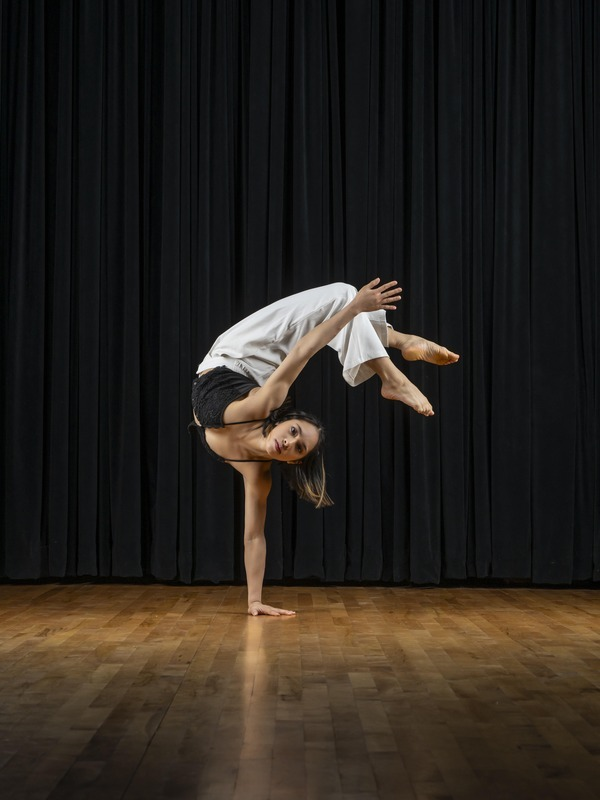
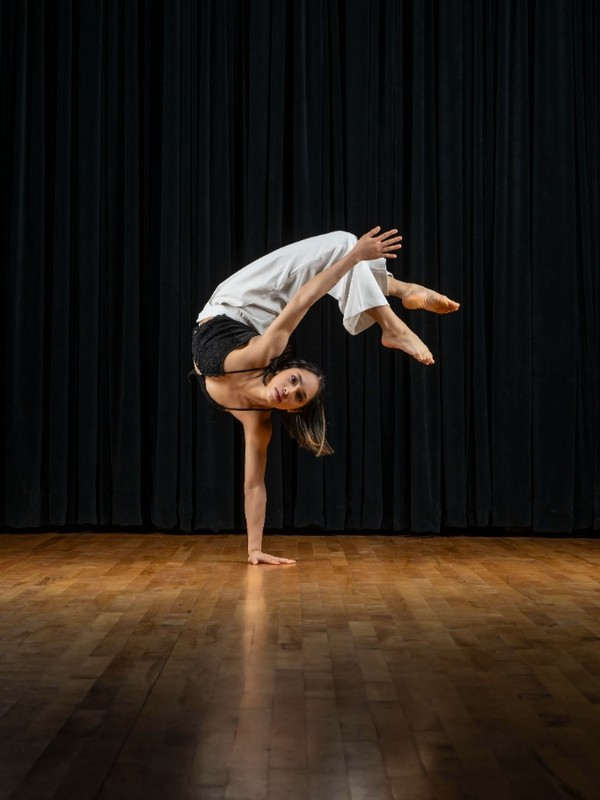
Teachers edits.

Changed region(s): [[0.0, 0.2812, 1.0, 0.9688], [0.54, 0.9375, 0.69, 1.0]]

diff --git a/about.html b/about.html
@@ -660,7 +660,7 @@
                 <span class="faculty-style-tag">Vaganova</span>
               </div>
               <p style="font-size:0.8rem;color:var(--ink-muted);margin-top:var(--space-3);line-height:1.6">
-                Trained at Balletto di Roma and certified at the Accademia Nazionale di Danza in Rome, Ms. Rossana has taught internationally for over 30 years. Her students perform with NYC Ballet, ABT, Royal Ballet London, and many more of the world's elite companies.
+                Trained at Balletto di Roma and certified at the Accademia Nazionale di Danza in Rome, Ms. Rossana has taught and choreographed internationally for over 30 years. Her students have gone on to top-tier companies and schools such as the New York City Ballet, American Ballet Theatre, Royal Ballet London, Finnish National Ballet, and more. She brings a legacy of elite training and mentorship to every student she teaches.
               </p>
             </div>
           </div>
@@ -759,6 +759,25 @@
               </p>
             </div>
           </div>
+
+          <!-- Ally Organo -->
+          <div class="faculty-card reveal">
+            <div class="faculty-card-img">
+              <img src="images/faculty-ally.jpg?v=2" alt="Ally Organo, Dance Instructor" width="300" height="400" loading="lazy" style="object-position:center center">
+            </div>
+            <div class="faculty-card-body">
+              <div class="faculty-card-name">Ally Organo</div>
+              <div class="faculty-card-role">Ballet · Jazz · Contemporary · Hip Hop · Tap · Acro</div>
+              <div class="faculty-card-styles">
+                <span class="faculty-style-tag">UNC Carolina Girls</span>
+                <span class="faculty-style-tag">UDA Nationals</span>
+                <span class="faculty-style-tag">Multi-Style</span>
+              </div>
+              <p style="font-size:0.8rem;color:var(--ink-muted);margin-top:var(--space-3);line-height:1.6">
+                Ally Organo, originally from Apex, NC, began dancing at just two years old. She spent five years competing with the Academy for the Performing Arts' Elite program, where she trained extensively in ballet, jazz, contemporary, hip-hop, tap, acrobatics, and more. In addition to her studio training, Ally was a leading member of Apex High School's Dance Company, performing in numerous concerts and taking part in various choreography opportunities throughout the school year. After graduating, she earned a coveted spot on the Carolina Girls Dance Team at UNC-Chapel Hill, where she performs at home football and men's basketball games and competes at the UDA Collegiate National Championship. Ally is deeply passionate about dance and is dedicated to sharing that passion with all her students.
+              </p>
+            </div>
+          </div>
         </div><!-- end senior company faculty-grid -->
 
         <!-- ======== GROUP 2: RECREATIONAL & COMPANY FACULTY ======== -->
@@ -770,26 +789,6 @@
           </p>
         </div>
         <div class="faculty-grid">
-
-          <!-- Ally Organo -->
-          <div class="faculty-card reveal">
-            <div class="faculty-card-img">
-              <img src="images/faculty-ally.jpg" alt="Ally Organo, Dance Instructor" width="300" height="400" loading="lazy">
-            </div>
-            <div class="faculty-card-body">
-              <div class="faculty-card-name">Ally Organo</div>
-              <div class="faculty-card-role">Ballet · Jazz · Contemporary · Hip Hop</div>
-              <div class="faculty-card-styles">
-                <span class="faculty-style-tag">Ballet</span>
-                <span class="faculty-style-tag">Jazz</span>
-                <span class="faculty-style-tag">Hip Hop</span>
-                <span class="faculty-style-tag">Acro</span>
-              </div>
-              <p style="font-size:0.8rem;color:var(--ink-muted);margin-top:var(--space-3);line-height:1.6">
-                Began dancing at age two and competed in elite programs throughout her training. Member of the Carolina Girls Dance Team at UNC-Chapel Hill, performing at major events and competing at UDA Collegiate Nationals. Deeply passionate about sharing her love of dance with every student.
-              </p>
-            </div>
-          </div>
 
           <!-- Savanna Holland -->
           <div class="faculty-card reveal reveal-delay-1">

diff --git a/ballet-academy.html b/ballet-academy.html
@@ -865,13 +865,7 @@
             <h3 class="heading-2">Rossana Nesta</h3>
             <div class="faculty-founder-role">Cecchetti &amp; Vaganova Methods &middot; Classical Repertoire &middot; Variations &middot; Pilates</div>
             <p>
-              Born in Rome, Rossana Nesta graduated from the prestigious <strong>Balletto di Roma</strong>, where she taught from 1987 to 1995, and earned her Bachelor in Teaching Ballet in 1989 from the <strong>Accademia Nazionale di Danza</strong> in Rome, the highest level of classical certification sponsored by the Italian Ministry of Public Instruction.
-            </p>
-            <p>
-              She completed advanced pedagogical training in Varna, Bulgaria during the International Ballet Competition and at the Carcano Theater in Milan under Anna Maria Prina, Director of the <strong>Teatro alla Scala Ballet School</strong>. After moving to the United States in 1996, she taught for five years at <strong>Pittsburgh Ballet Theatre</strong> and <strong>Point Park University</strong>, and in 2002 became a Partner of the <strong>School of American Ballet (SAB)</strong> in New York.
-            </p>
-            <p>
-              In North Carolina, Ms. Rossana served as Ballet Mistress at Cary Ballet Conservatory, performed professionally with <strong>Carolina Ballet</strong>, and founded the International Ballet Academy, where she received a license from the <strong>George Balanchine Foundation</strong> to stage New York City Ballet repertoire. Since 2019, she has led the <strong>Ballet Academy of Chapel Hill at Renner Dance</strong>, mentoring students with the discipline and care that have propelled her dancers into the world's leading companies.
+              Trained at Balletto di Roma and certified at the Accademia Nazionale di Danza in Rome, Ms. Rossana has taught and choreographed internationally for over 30 years. Her students have gone on to top-tier companies and schools such as the New York City Ballet, American Ballet Theatre, Royal Ballet London, Finnish National Ballet, and more. She brings a legacy of elite training and mentorship to every student she teaches.
             </p>
             <div class="credential-tags">
               <span class="credential-tag">Balletto di Roma</span>
